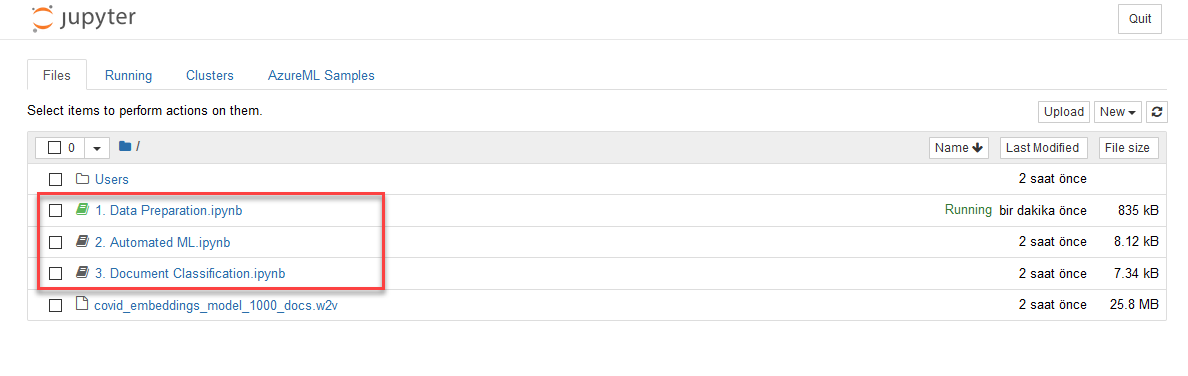
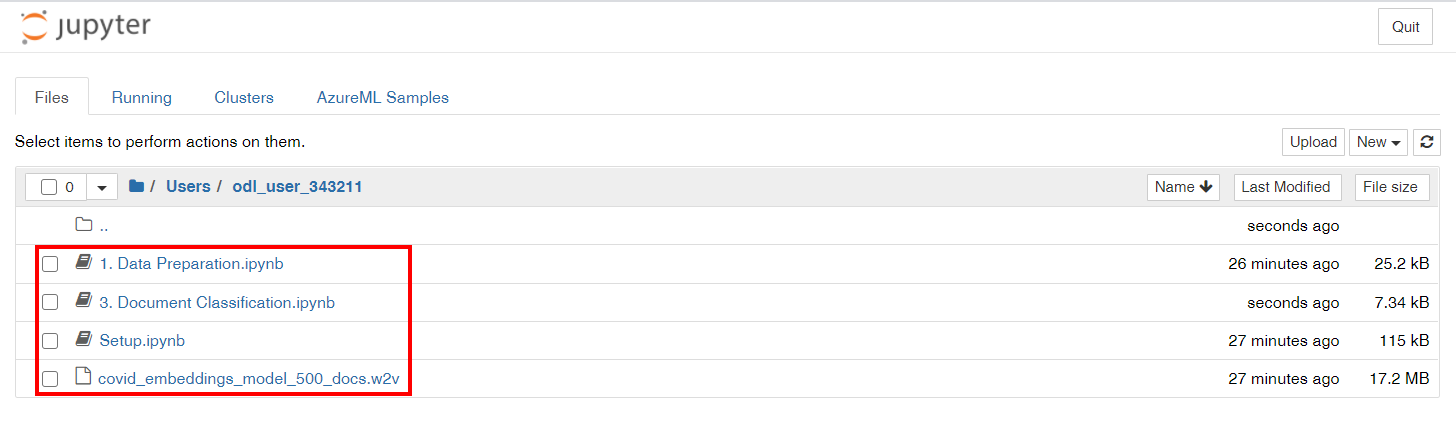
updates on lab01

diff --git a/01-aml-model-training/README.md b/01-aml-model-training/README.md
@@ -61,11 +61,9 @@ The high-level steps covered in the lab are:
 
     [1. Data Preparation.ipynb](https://solliancepublicdata.blob.core.windows.net/ai-in-a-day/lab-01/1.%20Data%20Preparation.ipynb)
 
-    [2. Automated ML.ipynb](https://solliancepublicdata.blob.core.windows.net/ai-in-a-day/lab-01/2.%20Automated%20ML.ipynb)
-
     [3. Document Classification.ipynb](https://solliancepublicdata.blob.core.windows.net/ai-in-a-day/lab-01/3.%20Document%20Classification.ipynb)
 
-    [covid_embeddings_model_1000_docs.w2v](https://solliancepublicdata.blob.core.windows.net/ai-in-a-day/lab-01/covid_embeddings_model_1000_docs.w2v)
+    [covid_embeddings_model_500_docs.w2v](https://solliancepublicdata.blob.core.windows.net/ai-in-a-day/lab-01/covid_embeddings_model_500_docs.w2v)
 
 Upload each file by selecting the `Upload` **(1)** button from the top right corner of the screen and then selecting the blue `Upload` **(2)** button to confirm.
 
@@ -121,19 +119,19 @@ In this task, we'll use Azure Automated ML to train a machine learning model cap
 
     ![Experiment name is set to COVID19_Classification. Cluster is selected for the target column. Compute cluster selection points aml-compute-cpu. The next button is highlighted.](media/automl-configure-run.png)
 
-7. On the `Select task type` screen select `View additional configuration settings` **(1)** to open a new panel of settings. Fill in the values listed below:
+7. On the `Select task type` screen select `View additional configuration settings` to open a new panel of settings. Fill in the values listed below:
 
-    - **Primary metric (2)**: AUC weighted
-    - **Training job time (hours) (4)**: 0.25
-    - **Validation type (4)**: k-fold cross validation
-    - **Number of cross validations (5)**: 5
-    - **Max concurrent iterations (5)**: 4
+    - **Primary metric**: AUC weighted
+    - **Training job time (hours)**: 0.25
+    - **Validation type**: k-fold cross validation
+    - **Number of cross validations**: 5
+    - **Max concurrent iterations**: 4
   
     ![Primary metric is set to AUC weighted. Training job time is set to 0.25 hours. The validation type is set to k-fold cross validation. The number of cross validations is set to five. Max concurrent iterations is set to four. The save button is highlighted.](media/automl-additional-configuration.png)
 
     Thanks to the 0.25 hours set for `training job time`, the experiment will stop after 15 minutes to minimize cost. When it comes to `Max concurrent iterations`, Automated ML can try at most four models at the same time, this is also limited by the compute instance's maximum number of nodes.
 
-    Select `Save` **(4)** to continue.
+    Select `Save` to continue.
 
 8. When you are back on the `Select task type` screen, select `Classification` **(1)** as the machine learning task type for the experiment. Select `Finish` **(2)** to kick off the Automated ML experiment run. If this is the first time you are launching an experiment run in the Azure Machine Learning workspace, the total experiment time will longer than the `training job time` we have set. This is because of the time needed to start the Compute Cluster and deploy the container images required to execute.
 
